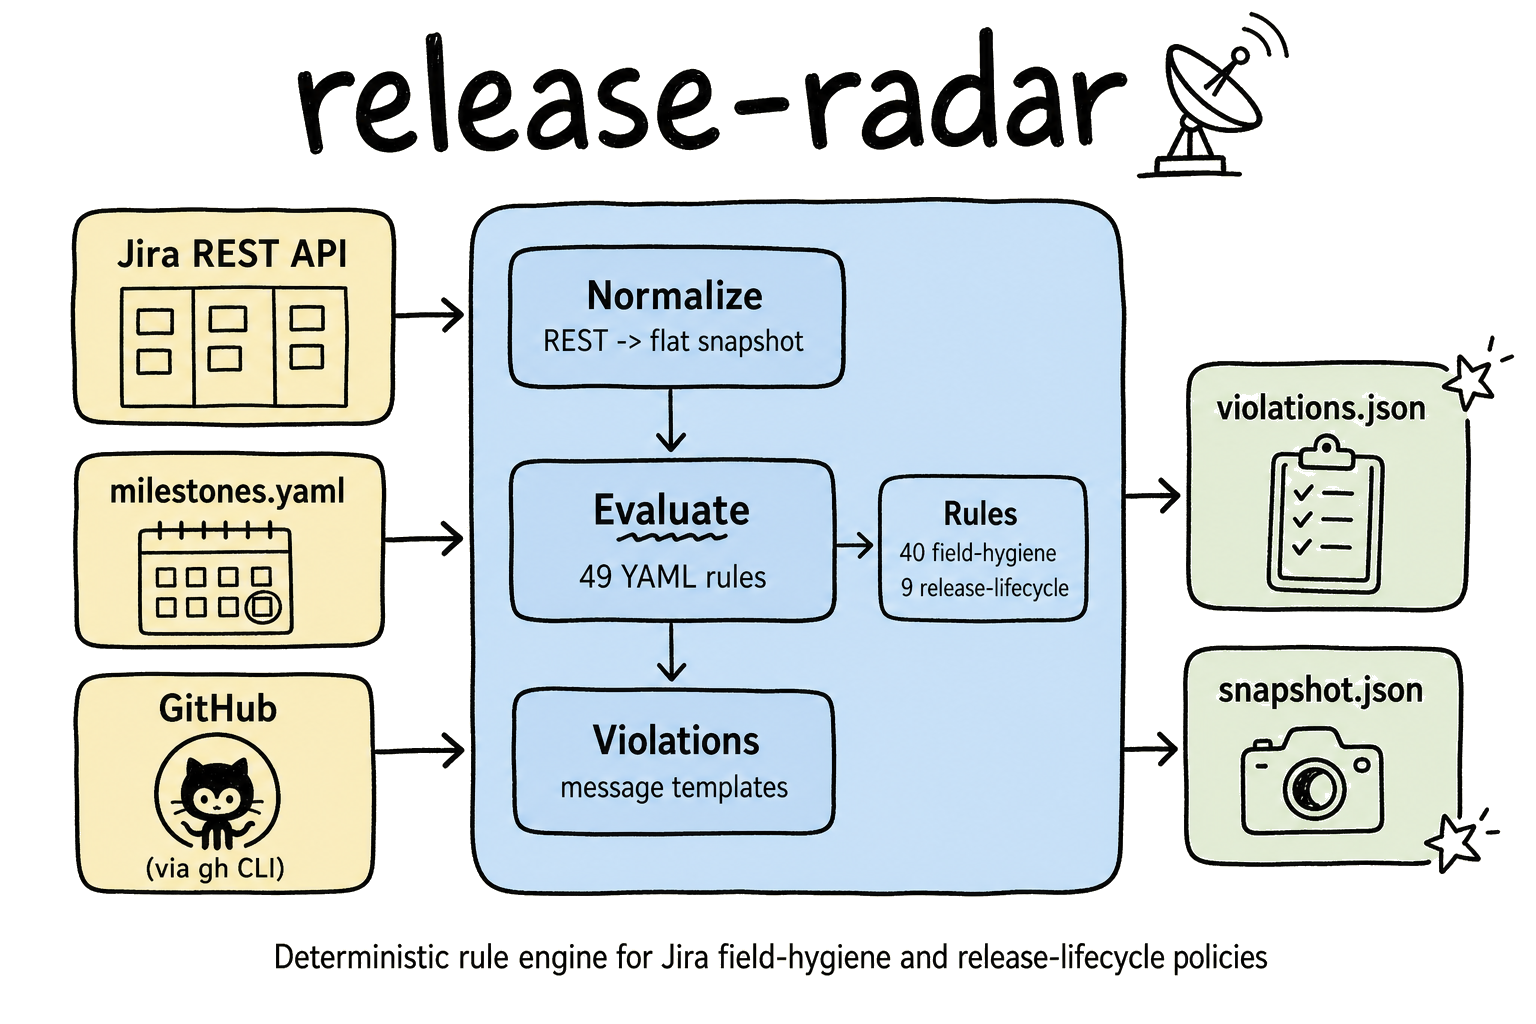
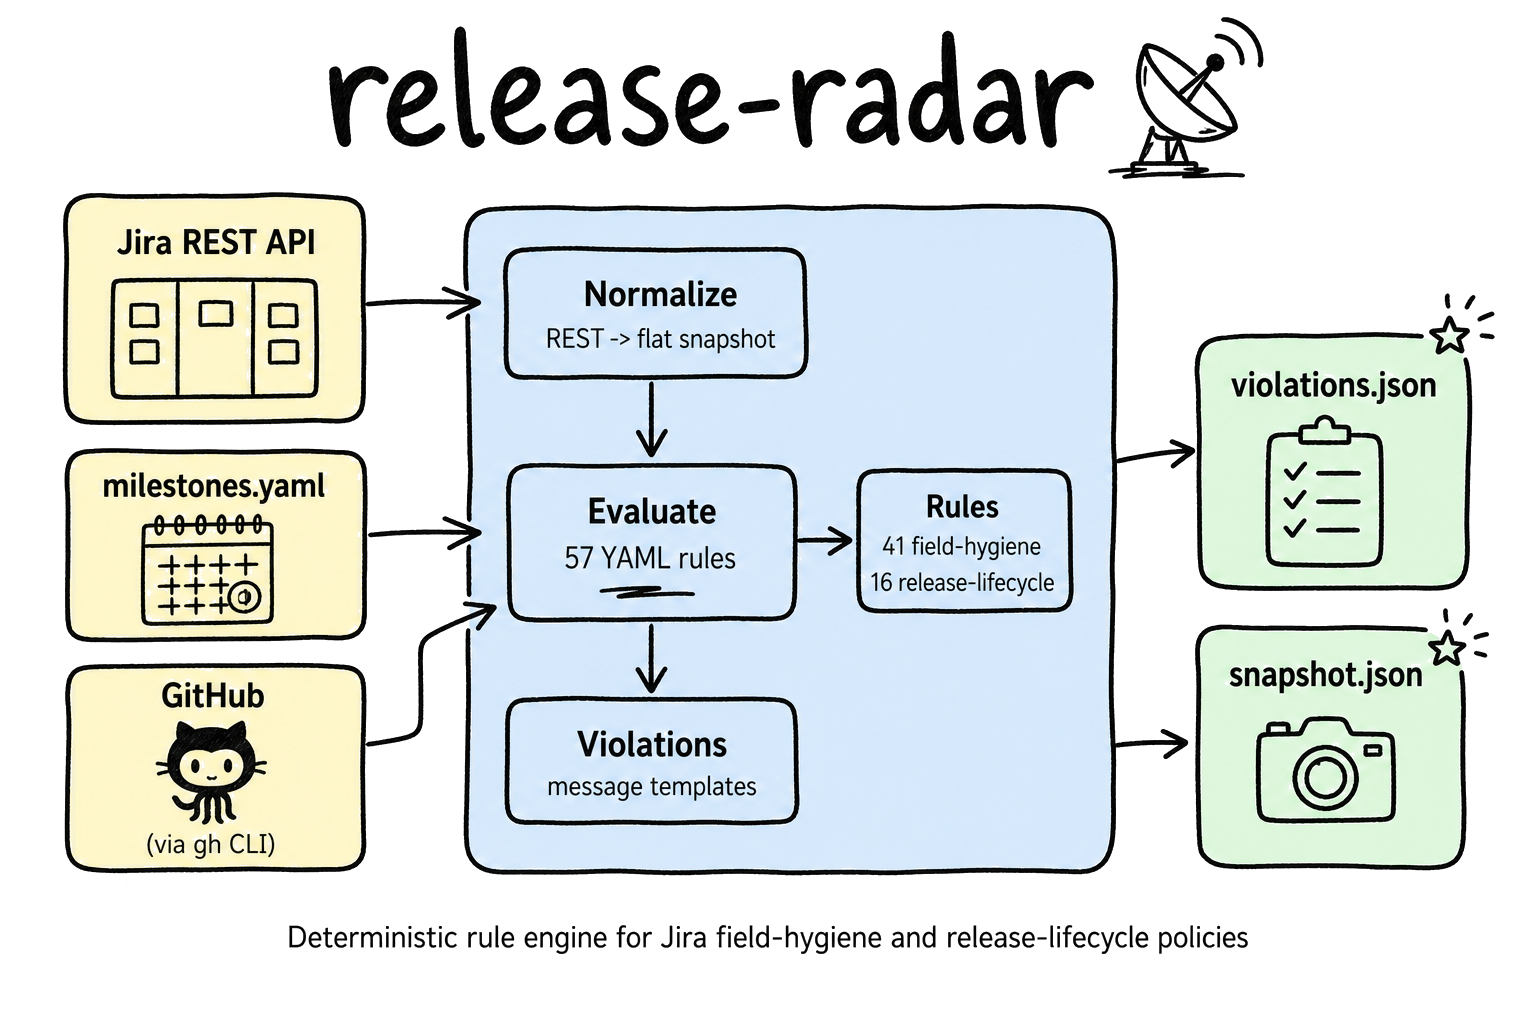
Consolidate rules and make team-configurable
Move 7 timing rules and 1 sprint rule from local runner into the shared
engine. All rules are org-wide RHOAI policy, not team-specific.

- 8 new rules (57 total: 41 field-hygiene + 16 release-lifecycle)
- Add --component and --projects CLI flags with documented defaults
  (Data Processing, RHAISTRAT/RHAIENG/RHOAIENG)
- Update README with team configuration docs and quick start examples
- Regenerate system design diagram with updated counts

Changed region(s): [[0.0312, 0.1875, 0.9688, 0.875], [0.1875, 0.0, 0.8438, 0.1875], [0.1875, 0.9062, 0.8125, 0.9688]]

diff --git a/engine/run.py b/engine/run.py
@@ -28,13 +28,14 @@ from .evaluate import evaluate
 from .enrich import run_enrichment
 
 DEFAULT_RELEASES = ["3.5", "3.6"]
-COMPONENT = "Data Processing"
-PROJECTS = ["RHAISTRAT", "RHAIENG", "RHOAIENG"]
+DEFAULT_COMPONENT = "Data Processing"
+DEFAULT_PROJECTS = ["RHAISTRAT", "RHAIENG", "RHOAIENG"]
 
 
-def _build_jql(releases: list[str], milestones: dict | None = None) -> str:
-    """Build JQL targeting DP issues in the given release cycles."""
-    projects = ", ".join(PROJECTS)
+def _build_jql(releases: list[str], projects: list[str],
+               component: str, milestones: dict | None = None) -> str:
+    """Build JQL targeting issues for the given team and release cycles."""
+    projects_str = ", ".join(projects)
 
     all_versions = set()
     if milestones:
@@ -49,8 +50,8 @@ def _build_jql(releases: list[str], milestones: dict | None = None) -> str:
     versions = ", ".join(f'"{v}"' for v in sorted(all_versions))
 
     return (
-        f"project in ({projects}) AND "
-        f"component = '{COMPONENT}' AND ("
+        f"project in ({projects_str}) AND "
+        f"component = '{component}' AND ("
         f"fixVersion in ({versions}) OR "
         f'"Target Version" in ({versions}) OR '
         f"statusCategory = 'In Progress'"
@@ -60,9 +61,12 @@ def _build_jql(releases: list[str], milestones: dict | None = None) -> str:
 
 def run_pipeline(releases: list[str], rules_dir: Path, output_dir: Path,
                  verbose: bool = False, snapshot_path: Path | None = None,
-                 milestones_path: Path | None = None):
+                 milestones_path: Path | None = None,
+                 component: str = DEFAULT_COMPONENT,
+                 projects: list[str] | None = None):
     """Full pipeline: fetch -> normalize -> evaluate -> output."""
     now = datetime.now(timezone.utc)
+    projects = projects or DEFAULT_PROJECTS
 
     ms = None
     if milestones_path and milestones_path.exists():
@@ -81,13 +85,14 @@ def run_pipeline(releases: list[str], rules_dir: Path, output_dir: Path,
         print(f"Snapshot: {len(issues)} issues (fetched {snapshot_data.get('fetched_at', 'unknown')})")
     else:
         print(f"=== release-radar | {now.strftime('%Y-%m-%d %H:%M UTC')} ===")
-        print(f"Projects: {', '.join(PROJECTS)}")
+        print(f"Component: {component}")
+        print(f"Projects: {', '.join(projects)}")
         print(f"Releases: {', '.join(releases)}")
         print()
 
         print("Fetching from Jira...")
         load_env()
-        jql = _build_jql(releases, ms)
+        jql = _build_jql(releases, projects, component, ms)
         raw_issues = fetch_issues(jql, JIRA_FIELDS, verbose=verbose)
         print(f"  {len(raw_issues)} issues fetched")
 
@@ -171,6 +176,14 @@ def main():
         "--releases", default=",".join(DEFAULT_RELEASES),
         help=f"Comma-separated release versions (default: {','.join(DEFAULT_RELEASES)})"
     )
+    parser.add_argument(
+        "--component", default=DEFAULT_COMPONENT,
+        help=f"Jira component to filter on (default: {DEFAULT_COMPONENT})"
+    )
+    parser.add_argument(
+        "--projects", default=",".join(DEFAULT_PROJECTS),
+        help=f"Comma-separated Jira projects (default: {','.join(DEFAULT_PROJECTS)})"
+    )
     parser.add_argument("--snapshot", type=Path, default=None)
     parser.add_argument("--rules-dir", type=Path, default=PROJECT_DIR / "rules")
     parser.add_argument("--output-dir", type=Path, default=PROJECT_DIR / "output")
@@ -178,6 +191,7 @@ def main():
     args = parser.parse_args()
 
     releases = [r.strip() for r in args.releases.split(",")]
+    projects = [p.strip() for p in args.projects.split(",")]
 
     run_pipeline(
         releases=releases,
@@ -185,6 +199,8 @@ def main():
         output_dir=args.output_dir,
         verbose=args.verbose,
         snapshot_path=args.snapshot,
+        component=args.component,
+        projects=projects,
     )
 
 

diff --git a/README.md b/README.md
@@ -4,8 +4,8 @@ A rule engine that evaluates Jira issues against field-hygiene and
 release-lifecycle policies. Outputs structured violations with full
 provenance (rule ID, severity, source references).
 
-Built for the RHOAI Data Processing team's Jira workflow on
-`redhat.atlassian.net`.
+Built for RHOAI teams on `redhat.atlassian.net`. Defaults target the
+Data Processing team but any team can override via CLI flags.
 
 ![System Design](design/system-design.png)
 
@@ -13,7 +13,7 @@ Built for the RHOAI Data Processing team's Jira workflow on
 
 - Fetches issues from Jira REST API (with changelog for staleness detection)
 - Normalizes raw API responses into a flat snapshot format
-- Evaluates 49 YAML rules (40 field-hygiene + 9 release-lifecycle)
+- Evaluates 57 YAML rules (41 field-hygiene + 16 release-lifecycle)
 - Some rules check external sources (GitHub PRs, Jira subtask sign-offs)
 - Outputs `violations.json` with per-issue findings
 
@@ -30,12 +30,30 @@ pip install -e ".[dev]"
 cp .env.example .env
 # Edit .env with your Jira email and API token
 
-# Run against live Jira
+# Run against live Jira (defaults to Data Processing team)
 python3 -m engine.run --releases 3.5,3.6
+
+# Target a different team
+python3 -m engine.run --releases 3.5,3.6 --component "Model Serving"
+python3 -m engine.run --releases 3.5,3.6 --projects RHAISTRAT,RHOAIENG
 
 # Run against a saved snapshot (no network needed)
 python3 -m engine.run --snapshot output/snapshot.json
 ```
+
+## Team configuration
+
+By default, the engine targets the Data Processing team across three
+Jira projects:
+
+| Flag | Default | Description |
+|---|---|---|
+| `--component` | `Data Processing` | Jira component to filter on |
+| `--projects` | `RHAISTRAT,RHAIENG,RHOAIENG` | Comma-separated Jira project keys |
+| `--releases` | `3.5,3.6` | Comma-separated release versions |
+
+Override any flag to target your team's issues. The rules themselves are
+org-wide RHOAI policy and apply to all teams.
 
 ## Rules
 
@@ -47,16 +65,17 @@ Rules are YAML files in `rules/`. Each rule specifies:
 - `action` - what to report (message template, recipients)
 - `sources` - provenance (SOURCE-XX references to process docs)
 
-### Field hygiene (40 rules)
+### Field hygiene (41 rules)
 
 Data correctness checks that run on every evaluation. Missing required
 fields, data integrity, staleness, hierarchy violations, cross-system
 checks (sign-off completeness, doc links, PR compliance).
 
-### Release lifecycle (9 rules)
+### Release lifecycle (16 rules)
 
-Org-policy checks that activate within milestone windows (post-freeze
-requirements, exception processes, quality gates).
+Org-policy checks that activate within milestone windows. Feature freeze
+readiness, code freeze enforcement, sign-off gates, exception processes,
+quality gates.
 
 ## Architecture
 
@@ -78,7 +97,7 @@ engine/
 pytest
 ```
 
-134 unit tests covering condition operators, normalization, changelog
+132 unit tests covering condition operators, normalization, changelog
 parsing, and milestone trigger logic.
 
 ## Configuration
@@ -88,7 +107,7 @@ parsing, and milestone trigger logic.
 - `JIRA_EMAIL` - Jira account email
 - `JIRA_API_TOKEN` - Jira API token
 
-### Optional (for full enrichment)
+### Optional
 
 - `gh` CLI authenticated (for GitHub PR inspection post-code-freeze)
 
